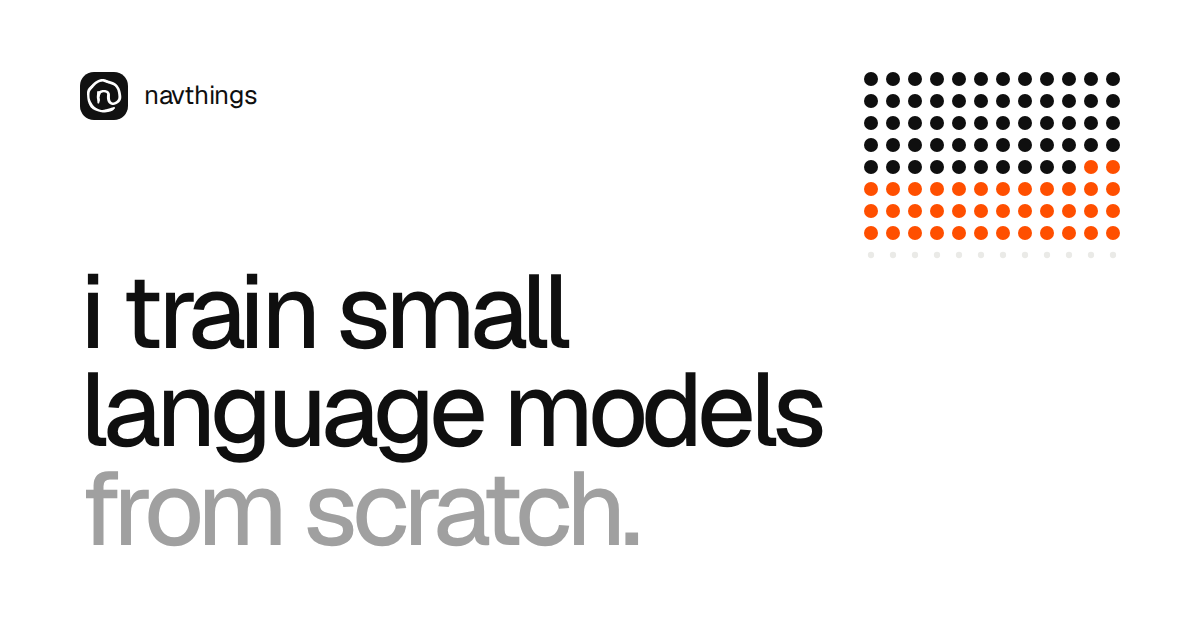
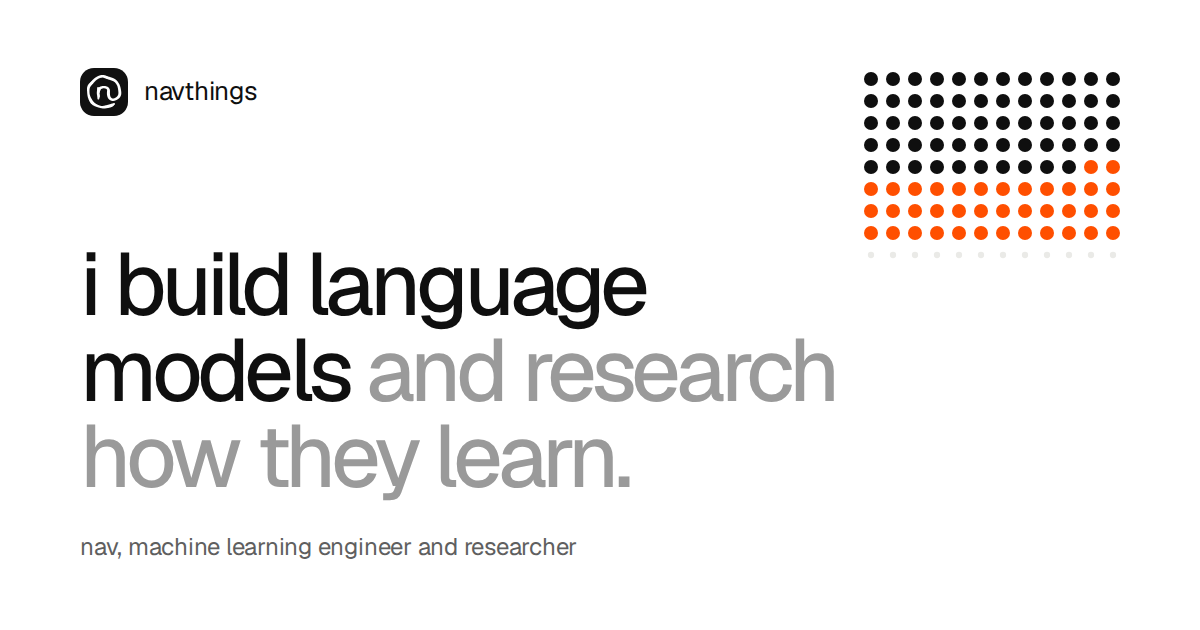
case studies, link preview and rss lead with the engineering and research, hardware details stay in the story

Changed region(s): [[0.0617, 0.3921, 0.7092, 0.9048], [0.0617, 0.0905, 0.2158, 0.2111]]

diff --git a/work/lilbase.html b/work/lilbase.html
@@ -7,20 +7,20 @@
 
   <title>lilbase, a case study · navthings</title>
 
-  <meta name="description" content="how i trained a 297m param language model from scratch on a free kaggle tpu, and what went wrong." />
+  <meta name="description" content="pretraining a 297m param llama style model from scratch in jax on a tpu v5e-8: the setup, what broke, and how it compares to gpt-2 small." />
   <meta property="og:type" content="article" />
   <meta property="og:site_name" content="navthings" />
   <meta property="og:title" content="lilbase, a case study" />
-  <meta property="og:description" content="how i trained a 297m param language model from scratch on a free kaggle tpu, and what went wrong." />
+  <meta property="og:description" content="pretraining a 297m param llama style model from scratch in jax on a tpu v5e-8: the setup, what broke, and how it compares to gpt-2 small." />
   <meta property="og:url" content="https://navthings.github.io/work/lilbase.html" />
-  <meta property="og:image" content="https://navthings.github.io/og.png?v=4" />
+  <meta property="og:image" content="https://navthings.github.io/og.png?v=5" />
   <meta property="og:image:width" content="1200" />
   <meta property="og:image:height" content="630" />
-  <meta property="og:image:alt" content="navthings, training small language models from scratch" />
+  <meta property="og:image:alt" content="navthings, machine learning engineer and researcher" />
   <meta name="twitter:card" content="summary_large_image" />
   <meta name="twitter:title" content="lilbase, a case study" />
-  <meta name="twitter:description" content="how i trained a 297m param language model from scratch on a free kaggle tpu, and what went wrong." />
-  <meta name="twitter:image" content="https://navthings.github.io/og.png?v=4" />
+  <meta name="twitter:description" content="pretraining a 297m param llama style model from scratch in jax on a tpu v5e-8: the setup, what broke, and how it compares to gpt-2 small." />
+  <meta name="twitter:image" content="https://navthings.github.io/og.png?v=5" />
   <meta name="theme-color" content="#ffffff" />
   <link rel="icon" type="image/svg+xml" href="../favicon.svg" />
   <link rel="icon" type="image/png" sizes="32x32" href="../favicon-32.png" />
@@ -55,7 +55,7 @@
     <header class="cs-head wrap wide">
       <p class="cs-kicker cap" data-reveal><a href="../#work">work</a><span>/</span><span>pretraining · sep 2026</span></p>
       <h1 class="cs-title" style="view-transition-name: t-lilbase">lilbase</h1>
-      <p class="cs-lede" data-words style="--d: 0.15s">a 297m param language model, trained from scratch on a free kaggle tpu. it read 6.1 billion tokens and beats gpt-2 small on two of three benchmarks.</p>
+      <p class="cs-lede" data-words style="--d: 0.15s">a 297m param llama style base model, pretrained from scratch in jax on a tpu v5e-8. it read 6.1 billion tokens and beats gpt-2 small on two of three benchmarks.</p>
       <dl class="cs-meta" data-stagger="0.06" style="--d: 0.3s">
           <div data-reveal><dt>params</dt><dd>297m</dd></div>
           <div data-reveal><dt>read</dt><dd>6.1b tokens of fineweb-edu</dd></div>
@@ -102,8 +102,8 @@
       <div class="cs-sec" data-reveal data-label="why">
         <h2 class="cs-h">why</h2>
         <div class="cs-text">
-          <p>everything before this was trained on my laptop. tinystories is great for learning, but its simple little stories. i wanted a proper base model, one thats actually read a decent chunk of the internet.</p>
-          <p>my macbook air was never gonna do that. kaggle gives you free time on a <strong>tpu v5e-8</strong>, which is 8 of googles ai chips, so i rewrote the whole thing in jax and moved it there.</p>
+          <p>everything before this was small enough to train locally. tinystories is great for learning, but its simple little stories. i wanted a proper base model, one thats actually read a decent chunk of the internet.</p>
+          <p>that needs real compute, so i rewrote the training code in jax and moved it to a <strong>tpu v5e-8</strong> through kaggle, which is 8 of googles ai chips working together.</p>
         </div>
       </div>
       <div class="cs-sec" data-reveal data-label="the model">
@@ -158,7 +158,7 @@
     </section>
 
     <section class="statement wrap">
-      <p class="scrub">my laptop was never gonna read six billion tokens, so it moved to eight of googles chips. for free.</p>
+      <p class="scrub">six billion tokens, eight chips, and a training run that has to save and pick itself back up every 8.4 hours.</p>
     </section>
     <section class="cs-next wrap wide">
       <a class="next-card sq" href="lilchat.html" data-reveal="scale">

diff --git a/work/lilchat.html b/work/lilchat.html
@@ -7,20 +7,20 @@
 
   <title>lilchat, a case study · navthings</title>
 
-  <meta name="description" content="teaching lilbase to hold a conversation, overnight on a macbook air with mlx." />
+  <meta name="description" content="supervised finetuning of lilbase into a chat model with mlx: the chat format, loss masking, and what it still gets wrong." />
   <meta property="og:type" content="article" />
   <meta property="og:site_name" content="navthings" />
   <meta property="og:title" content="lilchat, a case study" />
-  <meta property="og:description" content="teaching lilbase to hold a conversation, overnight on a macbook air with mlx." />
+  <meta property="og:description" content="supervised finetuning of lilbase into a chat model with mlx: the chat format, loss masking, and what it still gets wrong." />
   <meta property="og:url" content="https://navthings.github.io/work/lilchat.html" />
-  <meta property="og:image" content="https://navthings.github.io/og.png?v=4" />
+  <meta property="og:image" content="https://navthings.github.io/og.png?v=5" />
   <meta property="og:image:width" content="1200" />
   <meta property="og:image:height" content="630" />
-  <meta property="og:image:alt" content="navthings, training small language models from scratch" />
+  <meta property="og:image:alt" content="navthings, machine learning engineer and researcher" />
   <meta name="twitter:card" content="summary_large_image" />
   <meta name="twitter:title" content="lilchat, a case study" />
-  <meta name="twitter:description" content="teaching lilbase to hold a conversation, overnight on a macbook air with mlx." />
-  <meta name="twitter:image" content="https://navthings.github.io/og.png?v=4" />
+  <meta name="twitter:description" content="supervised finetuning of lilbase into a chat model with mlx: the chat format, loss masking, and what it still gets wrong." />
+  <meta name="twitter:image" content="https://navthings.github.io/og.png?v=5" />
   <meta name="theme-color" content="#ffffff" />
   <link rel="icon" type="image/svg+xml" href="../favicon.svg" />
   <link rel="icon" type="image/png" sizes="32x32" href="../favicon-32.png" />
@@ -55,7 +55,7 @@
     <header class="cs-head wrap wide">
       <p class="cs-kicker cap" data-reveal><a href="../#work">work</a><span>/</span><span>finetuning · sep 2026</span></p>
       <h1 class="cs-title" style="view-transition-name: t-lilchat">lilchat</h1>
-      <p class="cs-lede" data-words style="--d: 0.15s">a base model just continues text. ask it a question and itll probably write 5 more questions instead of answering. so i taught lilbase to talk, overnight, on my macbook air.</p>
+      <p class="cs-lede" data-words style="--d: 0.15s">a base model just continues text. ask it a question and itll probably write 5 more questions instead of answering. lilchat is lilbase after supervised finetuning on conversations, done in mlx in one night.</p>
       <dl class="cs-meta" data-stagger="0.06" style="--d: 0.3s">
           <div data-reveal><dt>started from</dt><dd>lilbase, 297m</dd></div>
           <div data-reveal><dt>finetuned on</dt><dd>37m tokens of smol-smoltalk</dd></div>

diff --git a/work/playground.html b/work/playground.html
@@ -13,14 +13,14 @@
   <meta property="og:title" content="playground, a case study" />
   <meta property="og:description" content="running my language models in the browser with wllama, with no server." />
   <meta property="og:url" content="https://navthings.github.io/work/playground.html" />
-  <meta property="og:image" content="https://navthings.github.io/og.png?v=4" />
+  <meta property="og:image" content="https://navthings.github.io/og.png?v=5" />
   <meta property="og:image:width" content="1200" />
   <meta property="og:image:height" content="630" />
-  <meta property="og:image:alt" content="navthings, training small language models from scratch" />
+  <meta property="og:image:alt" content="navthings, machine learning engineer and researcher" />
   <meta name="twitter:card" content="summary_large_image" />
   <meta name="twitter:title" content="playground, a case study" />
   <meta name="twitter:description" content="running my language models in the browser with wllama, with no server." />
-  <meta name="twitter:image" content="https://navthings.github.io/og.png?v=4" />
+  <meta name="twitter:image" content="https://navthings.github.io/og.png?v=5" />
   <meta name="theme-color" content="#ffffff" />
   <link rel="icon" type="image/svg+xml" href="../favicon.svg" />
   <link rel="icon" type="image/png" sizes="32x32" href="../favicon-32.png" />
@@ -121,7 +121,7 @@
       <a class="next-card sq" href="lilbase.html" data-reveal="scale">
         <span class="label">next case study</span>
         <span class="next-title" style="view-transition-name: t-lilbase">lilbase</span>
-        <p>297m params on a free tpu. where the models on the playground come from.</p>
+        <p>297m params, pretrained in jax on a tpu. where the models on the playground come from.</p>
       </a>
     </section>
 

diff --git a/blog/dataset-size-paper.html b/blog/dataset-size-paper.html
@@ -14,14 +14,14 @@
   <meta property="og:title" content="i wrote a paper on how much data matters" />
   <meta property="og:description" content="i wanted to see how much the amount of data actually matters if you keep everything else the same. so i trained lilstory 4 times on 1%, 5%, 10% and 15% of..." />
   <meta property="og:url" content="https://navthings.github.io/blog/dataset-size-paper.html" />
-  <meta property="og:image" content="https://navthings.github.io/og.png?v=4" />
+  <meta property="og:image" content="https://navthings.github.io/og.png?v=5" />
   <meta property="og:image:width" content="1200" />
   <meta property="og:image:height" content="630" />
-  <meta property="og:image:alt" content="navthings, training small language models from scratch" />
+  <meta property="og:image:alt" content="navthings, machine learning engineer and researcher" />
   <meta name="twitter:card" content="summary_large_image" />
   <meta name="twitter:title" content="i wrote a paper on how much data matters" />
   <meta name="twitter:description" content="i wanted to see how much the amount of data actually matters if you keep everything else the same. so i trained lilstory 4 times on 1%, 5%, 10% and 15% of..." />
-  <meta name="twitter:image" content="https://navthings.github.io/og.png?v=4" />
+  <meta name="twitter:image" content="https://navthings.github.io/og.png?v=5" />
   <meta name="theme-color" content="#ffffff" />
   <link rel="icon" type="image/svg+xml" href="../favicon.svg" />
   <link rel="icon" type="image/png" sizes="32x32" href="../favicon-32.png" />

diff --git a/blog/bigtransformer.html b/blog/bigtransformer.html
@@ -14,14 +14,14 @@
   <meta property="og:title" content="bigtransformer, now it reads a whole file" />
   <meta property="og:description" content="made this the day after liltransformer. instead of one sentence it reads a whole text file, you pick how many words it looks at, and it keeps predicting..." />
   <meta property="og:url" content="https://navthings.github.io/blog/bigtransformer.html" />
-  <meta property="og:image" content="https://navthings.github.io/og.png?v=4" />
+  <meta property="og:image" content="https://navthings.github.io/og.png?v=5" />
   <meta property="og:image:width" content="1200" />
   <meta property="og:image:height" content="630" />
-  <meta property="og:image:alt" content="navthings, training small language models from scratch" />
+  <meta property="og:image:alt" content="navthings, machine learning engineer and researcher" />
   <meta name="twitter:card" content="summary_large_image" />
   <meta name="twitter:title" content="bigtransformer, now it reads a whole file" />
   <meta name="twitter:description" content="made this the day after liltransformer. instead of one sentence it reads a whole text file, you pick how many words it looks at, and it keeps predicting..." />
-  <meta name="twitter:image" content="https://navthings.github.io/og.png?v=4" />
+  <meta name="twitter:image" content="https://navthings.github.io/og.png?v=5" />
   <meta name="theme-color" content="#ffffff" />
   <link rel="icon" type="image/svg+xml" href="../favicon.svg" />
   <link rel="icon" type="image/png" sizes="32x32" href="../favicon-32.png" />

diff --git a/blog/lilstory.html b/blog/lilstory.html
@@ -14,14 +14,14 @@
   <meta property="og:title" content="lilstory, my first real language model" />
   <meta property="og:description" content="ok this one is an actual language model. 8.2m params, llama style, trained from scratch on tinystories (a dataset of simple little stories made for tiny..." />
   <meta property="og:url" content="https://navthings.github.io/blog/lilstory.html" />
-  <meta property="og:image" content="https://navthings.github.io/og.png?v=4" />
+  <meta property="og:image" content="https://navthings.github.io/og.png?v=5" />
   <meta property="og:image:width" content="1200" />
   <meta property="og:image:height" content="630" />
-  <meta property="og:image:alt" content="navthings, training small language models from scratch" />
+  <meta property="og:image:alt" content="navthings, machine learning engineer and researcher" />
   <meta name="twitter:card" content="summary_large_image" />
   <meta name="twitter:title" content="lilstory, my first real language model" />
   <meta name="twitter:description" content="ok this one is an actual language model. 8.2m params, llama style, trained from scratch on tinystories (a dataset of simple little stories made for tiny..." />
-  <meta name="twitter:image" content="https://navthings.github.io/og.png?v=4" />
+  <meta name="twitter:image" content="https://navthings.github.io/og.png?v=5" />
   <meta name="theme-color" content="#ffffff" />
   <link rel="icon" type="image/svg+xml" href="../favicon.svg" />
   <link rel="icon" type="image/png" sizes="32x32" href="../favicon-32.png" />

diff --git a/blog/lilbase.html b/blog/lilbase.html
@@ -14,14 +14,14 @@
   <meta property="og:title" content="lilbase, 297m params on a free tpu" />
   <meta property="og:description" content="everything before this was trained on my laptop, but i wanted to make a proper base model, like one thats actually read a decent chunk of the internet. my..." />
   <meta property="og:url" content="https://navthings.github.io/blog/lilbase.html" />
-  <meta property="og:image" content="https://navthings.github.io/og.png?v=4" />
+  <meta property="og:image" content="https://navthings.github.io/og.png?v=5" />
   <meta property="og:image:width" content="1200" />
   <meta property="og:image:height" content="630" />
-  <meta property="og:image:alt" content="navthings, training small language models from scratch" />
+  <meta property="og:image:alt" content="navthings, machine learning engineer and researcher" />
   <meta name="twitter:card" content="summary_large_image" />
   <meta name="twitter:title" content="lilbase, 297m params on a free tpu" />
   <meta name="twitter:description" content="everything before this was trained on my laptop, but i wanted to make a proper base model, like one thats actually read a decent chunk of the internet. my..." />
-  <meta name="twitter:image" content="https://navthings.github.io/og.png?v=4" />
+  <meta name="twitter:image" content="https://navthings.github.io/og.png?v=5" />
   <meta name="theme-color" content="#ffffff" />
   <link rel="icon" type="image/svg+xml" href="../favicon.svg" />
   <link rel="icon" type="image/png" sizes="32x32" href="../favicon-32.png" />

diff --git a/blog/lilchat.html b/blog/lilchat.html
@@ -14,14 +14,14 @@
   <meta property="og:title" content="teaching lilbase to talk" />
   <meta property="og:description" content="a base model just continues text. if you ask it a question itll probably write 5 more questions instead of answering. to make it a chat model you finetune..." />
   <meta property="og:url" content="https://navthings.github.io/blog/lilchat.html" />
-  <meta property="og:image" content="https://navthings.github.io/og.png?v=4" />
+  <meta property="og:image" content="https://navthings.github.io/og.png?v=5" />
   <meta property="og:image:width" content="1200" />
   <meta property="og:image:height" content="630" />
-  <meta property="og:image:alt" content="navthings, training small language models from scratch" />
+  <meta property="og:image:alt" content="navthings, machine learning engineer and researcher" />
   <meta name="twitter:card" content="summary_large_image" />
   <meta name="twitter:title" content="teaching lilbase to talk" />
   <meta name="twitter:description" content="a base model just continues text. if you ask it a question itll probably write 5 more questions instead of answering. to make it a chat model you finetune..." />
-  <meta name="twitter:image" content="https://navthings.github.io/og.png?v=4" />
+  <meta name="twitter:image" content="https://navthings.github.io/og.png?v=5" />
   <meta name="theme-color" content="#ffffff" />
   <link rel="icon" type="image/svg+xml" href="../favicon.svg" />
   <link rel="icon" type="image/png" sizes="32x32" href="../favicon-32.png" />

diff --git a/blog/liltransformer.html b/blog/liltransformer.html
@@ -14,14 +14,14 @@
   <meta property="og:title" content="my first transformer (it only knows one sentence)" />
   <meta property="og:description" content="first ml thing i ever made lol. you give it a sentence, pick a word from it, and it tries to guess the next word." />
   <meta property="og:url" content="https://navthings.github.io/blog/liltransformer.html" />
-  <meta property="og:image" content="https://navthings.github.io/og.png?v=4" />
+  <meta property="og:image" content="https://navthings.github.io/og.png?v=5" />
   <meta property="og:image:width" content="1200" />
   <meta property="og:image:height" content="630" />
-  <meta property="og:image:alt" content="navthings, training small language models from scratch" />
+  <meta property="og:image:alt" content="navthings, machine learning engineer and researcher" />
   <meta name="twitter:card" content="summary_large_image" />
   <meta name="twitter:title" content="my first transformer (it only knows one sentence)" />
   <meta name="twitter:description" content="first ml thing i ever made lol. you give it a sentence, pick a word from it, and it tries to guess the next word." />
-  <meta name="twitter:image" content="https://navthings.github.io/og.png?v=4" />
+  <meta name="twitter:image" content="https://navthings.github.io/og.png?v=5" />
   <meta name="theme-color" content="#ffffff" />
   <link rel="icon" type="image/svg+xml" href="../favicon.svg" />
   <link rel="icon" type="image/png" sizes="32x32" href="../favicon-32.png" />

diff --git a/work/corpus-size.html b/work/corpus-size.html
@@ -13,14 +13,14 @@
   <meta property="og:title" content="the paper, a case study" />
   <meta property="og:description" content="same model, four amounts of data. what happened when i trained lilstory on 1, 5, 10 and 15 percent of tinystories." />
   <meta property="og:url" content="https://navthings.github.io/work/corpus-size.html" />
-  <meta property="og:image" content="https://navthings.github.io/og.png?v=4" />
+  <meta property="og:image" content="https://navthings.github.io/og.png?v=5" />
   <meta property="og:image:width" content="1200" />
   <meta property="og:image:height" content="630" />
-  <meta property="og:image:alt" content="navthings, training small language models from scratch" />
+  <meta property="og:image:alt" content="navthings, machine learning engineer and researcher" />
   <meta name="twitter:card" content="summary_large_image" />
   <meta name="twitter:title" content="the paper, a case study" />
   <meta name="twitter:description" content="same model, four amounts of data. what happened when i trained lilstory on 1, 5, 10 and 15 percent of tinystories." />
-  <meta name="twitter:image" content="https://navthings.github.io/og.png?v=4" />
+  <meta name="twitter:image" content="https://navthings.github.io/og.png?v=5" />
   <meta name="theme-color" content="#ffffff" />
   <link rel="icon" type="image/svg+xml" href="../favicon.svg" />
   <link rel="icon" type="image/png" sizes="32x32" href="../favicon-32.png" />

diff --git a/blog/tale.html b/blog/tale.html
@@ -14,14 +14,14 @@
   <meta property="og:title" content="tale, bedtime stories for my little brother" />
   <meta property="og:description" content="my little brother kept asking me for bedtime stories so i made a model that tells them." />
   <meta property="og:url" content="https://navthings.github.io/blog/tale.html" />
-  <meta property="og:image" content="https://navthings.github.io/og.png?v=4" />
+  <meta property="og:image" content="https://navthings.github.io/og.png?v=5" />
   <meta property="og:image:width" content="1200" />
   <meta property="og:image:height" content="630" />
-  <meta property="og:image:alt" content="navthings, training small language models from scratch" />
+  <meta property="og:image:alt" content="navthings, machine learning engineer and researcher" />
   <meta name="twitter:card" content="summary_large_image" />
   <meta name="twitter:title" content="tale, bedtime stories for my little brother" />
   <meta name="twitter:description" content="my little brother kept asking me for bedtime stories so i made a model that tells them." />
-  <meta name="twitter:image" content="https://navthings.github.io/og.png?v=4" />
+  <meta name="twitter:image" content="https://navthings.github.io/og.png?v=5" />
   <meta name="theme-color" content="#ffffff" />
   <link rel="icon" type="image/svg+xml" href="../favicon.svg" />
   <link rel="icon" type="image/png" sizes="32x32" href="../favicon-32.png" />

diff --git a/index.html b/index.html
@@ -13,14 +13,14 @@
   <meta property="og:title" content="navthings" />
   <meta property="og:description" content="nav, machine learning engineer and researcher. i build language models and research how they learn: pretraining, finetuning, scaling experiments and inference." />
   <meta property="og:url" content="https://navthings.github.io/" />
-  <meta property="og:image" content="https://navthings.github.io/og.png?v=4" />
+  <meta property="og:image" content="https://navthings.github.io/og.png?v=5" />
   <meta property="og:image:width" content="1200" />
   <meta property="og:image:height" content="630" />
   <meta property="og:image:alt" content="navthings, machine learning engineer and researcher" />
   <meta name="twitter:card" content="summary_large_image" />
   <meta name="twitter:title" content="navthings" />
   <meta name="twitter:description" content="nav, machine learning engineer and researcher. i build language models and research how they learn: pretraining, finetuning, scaling experiments and inference." />
-  <meta name="twitter:image" content="https://navthings.github.io/og.png?v=4" />
+  <meta name="twitter:image" content="https://navthings.github.io/og.png?v=5" />
   <meta name="theme-color" content="#ffffff" />
   <link rel="icon" type="image/svg+xml" href="favicon.svg" />
   <link rel="icon" type="image/png" sizes="32x32" href="favicon-32.png" />
